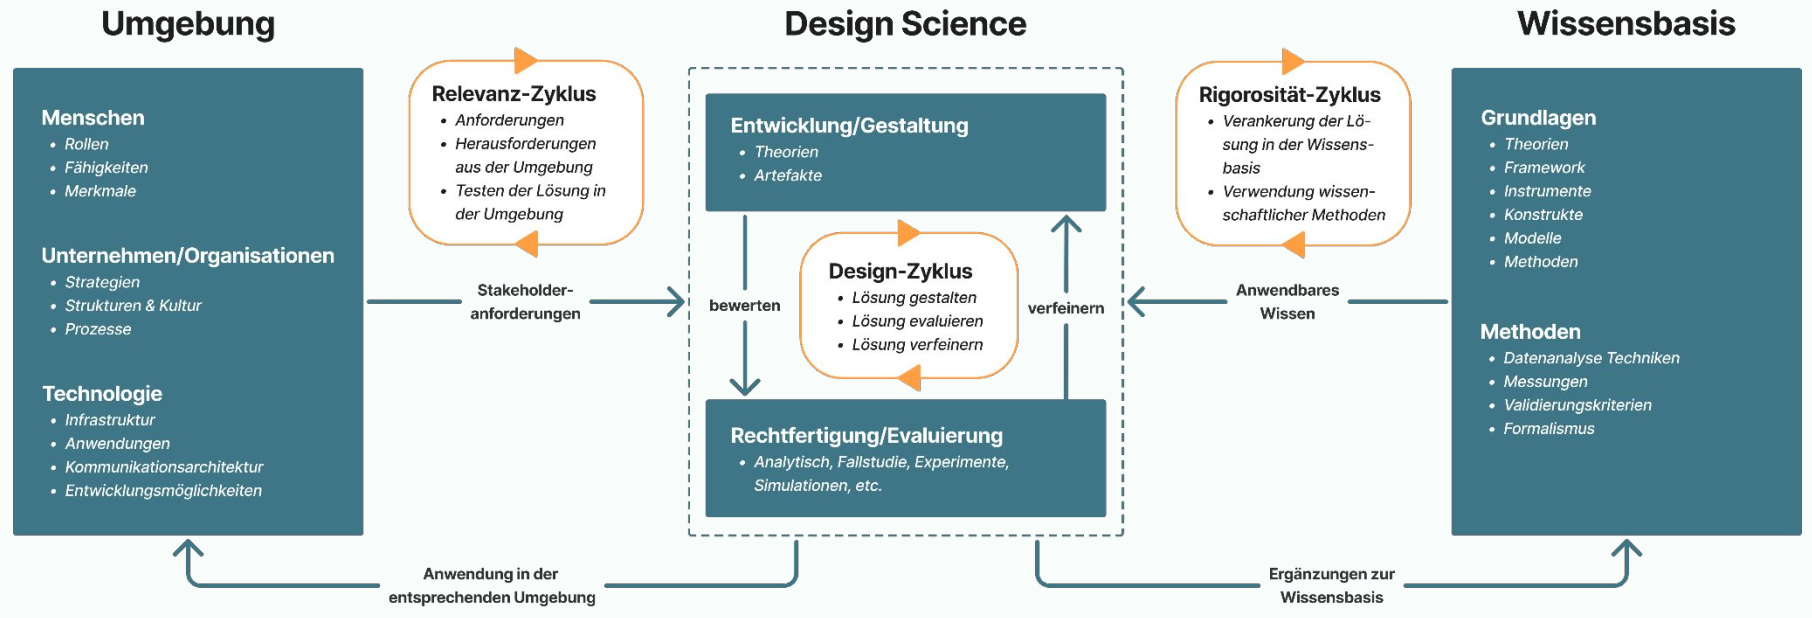
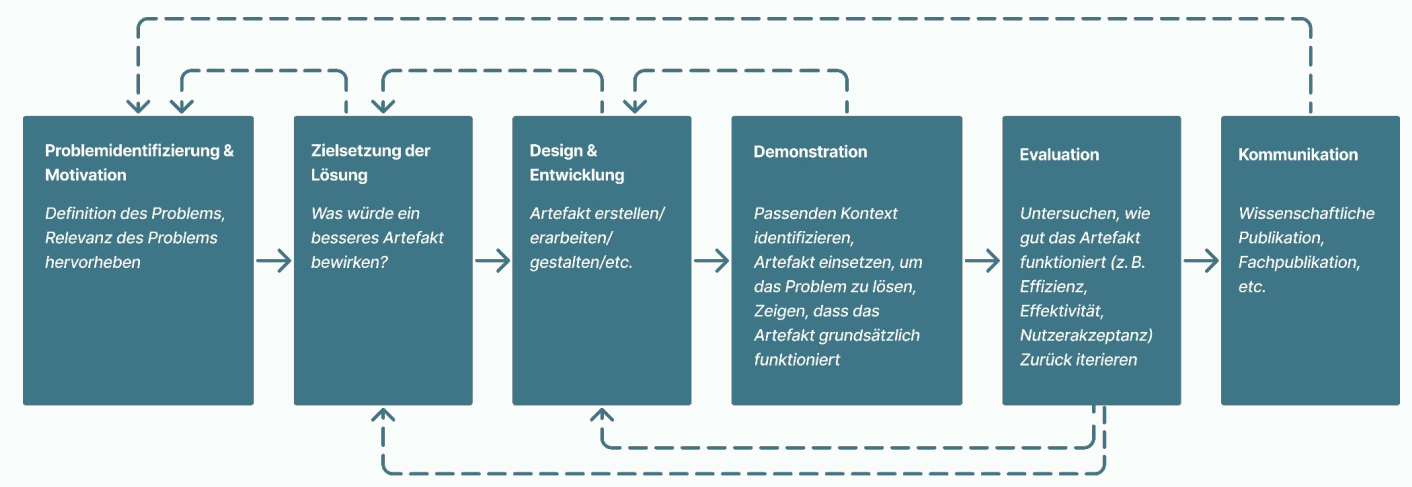
Methodik weiter befüllt

diff --git a/content/method.tex b/content/method.tex
@@ -6,12 +6,12 @@ Diese Forschungsarbeit verfolgt einen gestaltungsorientierten Ansatz im Sinne vo
 
 \subsection{DSR-Framework}
 
-Die folgende Abbildung zeigt das DSR-Framework nach Hevner et al. \cite{hevner2004design}:
+Abbildung \ref{fig:Hevner} zeigt das DSR-Framework nach Hevner et al. \cite{hevner2004design}:
 
 \begin{figure}[ht]
     \centering
     \includegraphics[width=1\textwidth]{images/method/Framework_DSR.png}
-    \caption{DSR-Framework/Cycles nach Hevner}
+    \caption{DSR-Framework/Cycles nach Hevner et al.}
     \label{fig:Hevner}
     \medskip
     {\footnotesize Quelle: Entnommen aus \cite[S.~6]{dogangun2025dsr}.}
@@ -35,6 +35,67 @@ die Untersuchung bestehender Probleme und der Bedarfe potenzieller
 Nutzer*innen und später durch die Evaluation der entwickelten Lösung in einem
 kontrollierten, fahrnahen Anwendungskontext.
 
-Im Zentrum des Frameworks steht der Design-Zyklus, der die Entwicklung und Evaluation eines Artefakts miteinander verknüpft. In der vorliegenden Arbeit umfasst dieser die Ableitung von Gestaltungsanforderungen, die partizipative Entwicklung eines In-Car-Onboarding-Konzepts, dessen prototypische Umsetzung sowie die anschließende Evaluation im Fahrsimulator. Aufgrund des zeitlichen und inhaltlichen Umfangs der Masterarbeit wird dabei kein mehrfacher vollständiger Entwicklungs- und Evaluationszyklus durchlaufen. Die Fahrsimulatorstudie bildet vielmehr die abschließende Evaluation des entwickelten Prototyps und stellt somit einen in der Sache begründeten Unterschied zu einer puristischen Anwendung des Frameworks dar.
+Im Zentrum des Frameworks steht der Design-Zyklus, der die Entwicklung und Evaluation eines Artefakts miteinander verknüpft. In der vorliegenden Arbeit umfasst dieser die Ableitung von Gestaltungsanforderungen, die partizipative Entwicklung eines In-Car-Onboarding-Konzepts, dessen prototypische Umsetzung sowie die anschließende Evaluation im Fahrsimulator. Aufgrund des zeitlichen und inhaltlichen Umfangs der Masterarbeit wird dabei kein mehrfacher vollständiger Entwicklungs- und Evaluationszyklus durchlaufen. Die aus der Evaluation resultierenden Erkenntnisse dienen daher nicht einer weiteren Überarbeitung und erneuten Evaluation innerhalb dieser Arbeit, sondern werden als Ausgangspunkt für mögliche zukünftige Iterationen diskutiert.
 
-Das DSR-Framework von Hevner et al. \cite{hevner2004design} ermöglicht eine übergeordnete Einordnung der Forschungsarbeit in Anwendungskontext und empirische Wissensbasis, strukturiert die einzelnen Forschungsaktivitäten jedoch nicht wie ein Prozessmodell. Aus diesem Grund soll im folgenden Abschnitt das DSR-Prozessmodell nach Peffers \cite{peffers2007design} zur Beantwortung dieser noch offenen Fragestellung verwendet werden.
+Das DSR-Framework von Hevner et al. \cite{hevner2004design} ermöglicht eine übergeordnete Einordnung der Forschungsarbeit in Anwendungskontext und wissenschaftliche Wissensbasis, strukturiert die einzelnen Forschungsaktivitäten jedoch nicht wie ein Prozessmodell. Aus diesem Grund soll im folgenden Abschnitt das DSR-Prozessmodell nach Peffers \cite{peffers2007design} zur Beantwortung dieser noch offenen Fragestellung verwendet werden.
+
+\subsection{DSR-Prozessmodell}
+
+Abbildung \ref{fig:Peffers} zeigt das DSR-Prozessmodell nach Peffers et al. \cite{peffers2007design}.
+
+\begin{figure}[ht]
+    \centering
+    \includegraphics[width=1\textwidth]{images/method/Modell_DSR.png}
+    \caption{Zyklischer DSR-Prozess nach Peffers et al.}
+    \label{fig:Peffers}
+    \medskip
+    {\footnotesize Quelle: Entnommen aus \cite[S.~53]{dogangun2025dsr}.}
+\end{figure}
+
+Das Modell konkretisiert DSR in sechs aufeinander bezogenen Aktivitäten, wobei der Ablauf nicht als strikt linear zu verstehen ist. Für die vorliegende Forschungsarbeit werden diese sechs generischen
+DSR-Aktivitäten in vier Untersuchungsphasen gebündelt. Die Bündelung dient
+dazu, das konkrete Vorgehen der Arbeit übersichtlich abzubilden, ohne die
+grundlegende Prozesslogik nach Peffers et al. zu verändern.
+
+Die erste Phase umfasst die Problemidentifikation und Motivation. Hierzu
+werden der bestehende Forschungsstand und die Erfahrungen, Erwartungen und
+Informationsbedarfe potenzieller Nutzer*innen untersucht. Die zweite Phase greift insbesondere die Aktivität der Zielsetzung der Lösung auf. Die Erkenntnisse aus Literatur und Nutzer*inneninterviews werden systematisch zusammengeführt und in konkrete Gestaltungsanforderungen für das In-Car-Onboarding überführt. Die dritte Phase entspricht der Aktivität Design und Entwicklung. Auf Basis der zuvor abgeleiteten Anforderungen wird partizipativ ein In-Car-Onboarding-Konzept entwickelt und prototypisch umgesetzt. Die vierte Phase bündelt Demonstration und Evaluation. Der entwickelte Prototyp wird in einem Fahrsimulator in definierten Fahrsituationen eingesetzt und anschließend hinsichtlich der zuvor festgelegten Zielsetzungen bewertet. Die Aktivität Kommunikation wird nicht als eigenständige Untersuchungsphase behandelt, sondern erfolgt phasenübergreifend durch die Dokumentation, Darstellung und Diskussion des Forschungsvorgehens und der Ergebnisse im Rahmen dieser Masterarbeit. Tabelle \ref{tab:dsr_phasen} zeigt die Zuordnung der Phasen der Masterarbeit zu den DSR-Aktivitäten aus dem Prozessmodell. 
+
+\begin{table}[ht]
+\centering
+\begin{tabular}{p{0.27\textwidth} p{0.43\textwidth} p{0.22\textwidth}}
+\hline
+\textbf{DSR-Aktivität} & \textbf{Umsetzung in dieser Forschungsarbeit} &
+\textbf{Phase} \\
+\hline
+Problemidentifikation und Motivation &
+Analyse des Forschungsstands und qualitative Nutzer*inneninterviews &
+Phase 1 \\
+
+Zielsetzung der Lösung &
+Synthese der Erkenntnisse und Ableitung von Gestaltungsanforderungen &
+Phase 2 \\
+
+Design und Entwicklung &
+Partizipative Konzeptentwicklung und prototypische Umsetzung &
+Phase 3 \\
+
+Demonstration &
+Einsatz des Prototyps im Fahrsimulator &
+Phase 4 \\
+
+Evaluation &
+Bewertung des Prototyps anhand der definierten Zielsetzungen &
+Phase 4 \\
+
+Kommunikation &
+Dokumentation und Diskussion innerhalb der Masterarbeit &
+phasenübergreifend \\
+\hline
+\end{tabular}
+
+\caption{Zuordnung der DSR-Aktivitäten nach Peffers et al. zu den Untersuchungsphasen dieser Arbeit}
+\label{tab:dsr_phasen}
+\end{table}
+
+Die nachfolgenden Abschnitte beschreiben die methodische Ausgestaltung dieser vier Untersuchungsphasen im Detail.
